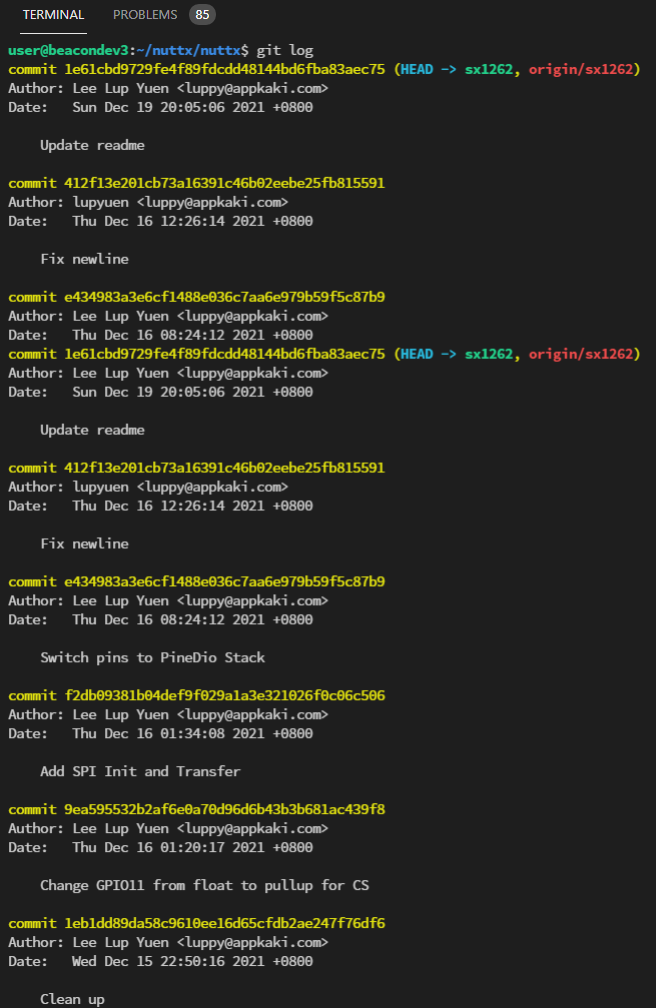
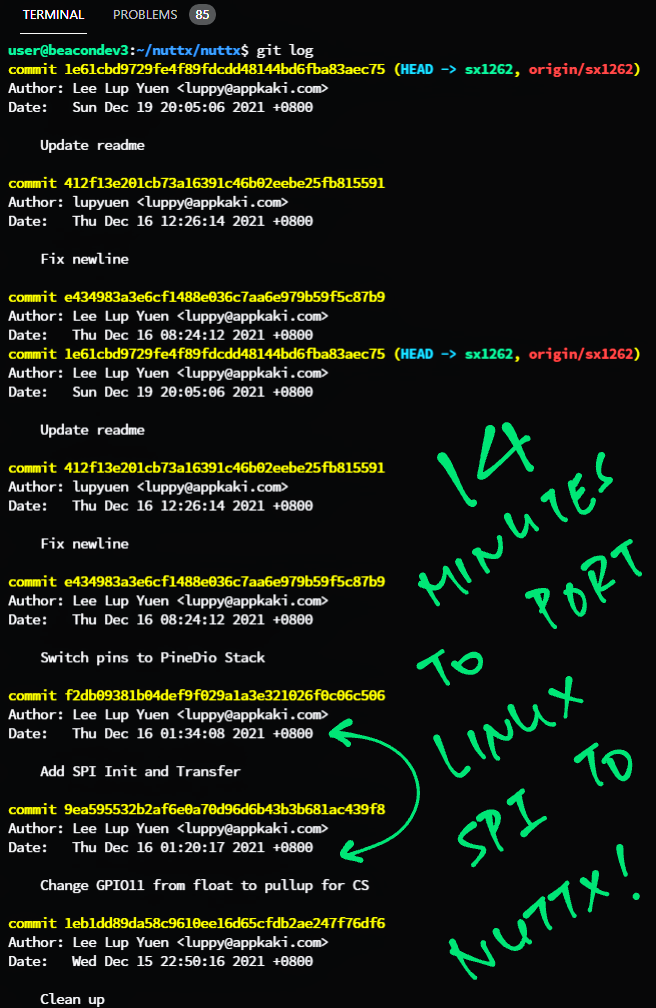
Update article

diff --git a/src/sx1262.md b/src/sx1262.md
@@ -1063,7 +1063,19 @@ Let's test our SX1262 Library and __receive a LoRa Message__...
 
 # SPI Interface
 
-TODO
+_Porting the SX1262 Library from Linux to NuttX... Was it difficult?_
+
+Not at all! NuttX works much like Linux because of its [__POSIX Compliance__](https://lupyuen.github.io/articles/nuttx).
+
+Most of the porting effort [(14 minutes!)](https://lupyuen.github.io/images/sx1262-git.png) was spent on...
+
+1.  __SPI Interface__
+
+1.  __GPIO Interface__
+
+Because the interfaces work differently on NuttX vs Linux.
+
+Let's dive into the SPI Interface.
 
 ## Initialise SPI
 
